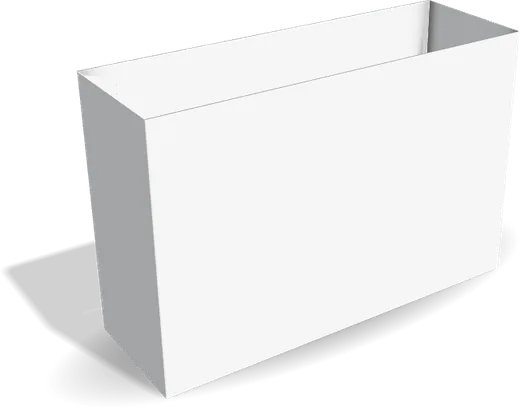
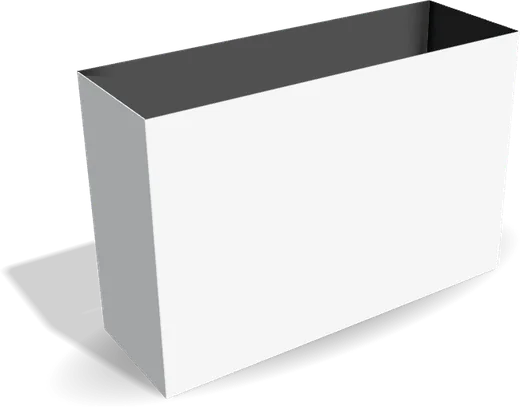
Print board cut edges and shade closed cartons inside
On a dark design the lid's cut edges, the ends of each fold and the glue
seam showed the unprinted white board under the studio's bluish light,
and read as gaps along every edge and at the corners. Cut edges of
printed (non-corrugated) board now carry the print that runs up to them;
corrugated board keeps its flutes. The inside of a closed carton is
shaded, so the small slots where folds meet at a corner show as shadow
rather than a bright white spot.

Claude-Session: https://claude.ai/code/session_01AosEoHGp9fRkJBNR4UPrD4

Changed region(s): [[0.1538, 0.0, 1.0, 0.2948]]

diff --git a/src/components/studio/carton-surfaces.ts b/src/components/studio/carton-surfaces.ts
@@ -1,4 +1,5 @@
-import { faceNormal, quadFromCorners, type Mesh } from '@/lib/packaging/template-mesh';
+import { printedEdge } from '@/lib/packaging/fold-sheet';
+import { CORRUGATED_THICKNESS, faceNormal, quadFromCorners, type Mesh } from '@/lib/packaging/template-mesh';
 
 // How each face meets its neighbours, worked out from the template meshes so
 // every template gets soft inside corners, rounded folds and cut board edges
@@ -104,6 +105,33 @@ function closestNeighbour(quad: Quad, a: Vec3, b: Vec3, quads: (Quad | null)[], 
   return best;
 }
 
+/**
+ * Printed board shows its print right up to a cut, so a cut edge carries the
+ * colour of the print along it (the same texture coordinates straight
+ * through the board) and reads as part of the box rather than a gap.
+ */
+function printEdge(strip: Mesh, face: Mesh, edge: number) {
+  const panel = face.panel ?? face.sourcePanel;
+  if (!panel || !face.useTexture || face.vertices.length !== QUAD_FLOATS) return;
+  // Texture coordinates of the face's corners a, b, c, d.
+  const uv = [0, 1, 2, 5].map(index => [face.vertices[index * 8 + 6], face.vertices[index * 8 + 7]]);
+  const outer = uv[edge], next = uv[(edge + 1) % 4];
+  // The strip's corners are outer, next, inner next, inner: a b c | a c d.
+  [outer, next, next, outer, next, outer].forEach(([u, v], index) => {
+    strip.vertices[index * 8 + 6] = u;
+    strip.vertices[index * 8 + 7] = v;
+  });
+  const size = face.uvSize ?? quadSize(face);
+  printedEdge(strip, panel, size);
+  strip.faceAspect = face.faceAspect ?? size[0] / size[1];
+  if (face.fallbackPanel) { strip.fallbackPanel = face.fallbackPanel; strip.fallbackUv = face.fallbackUv; }
+}
+
+function quadSize(mesh: Mesh): [number, number] {
+  const v = mesh.vertices;
+  return [Math.max(Math.hypot(v[8] - v[0], v[9] - v[1], v[10] - v[2]), 1e-3), Math.max(Math.hypot(v[40] - v[0], v[41] - v[1], v[42] - v[2]), 1e-3)];
+}
+
 type Board = { id: string; outside: Quad; inside: Quad; inner: Vec3[] };
 
 /** Marks a quad edge that continues into a bent crease. */
@@ -196,6 +224,7 @@ export function solidify(meshes: Mesh[], thickness: number): Mesh[] {
       if (allFaces.some(face => face !== board.outside && liesOn(middle, face, thickness * 0.6))) return;
       const mesh = quadFromCorners(strip, board.outside.mesh.color.map(value => value * 0.86) as [number, number, number]);
       mesh.doubleSided = true;
+      if (thickness < CORRUGATED_THICKNESS) printEdge(mesh, board.outside.mesh, edge);
       edges.push(mesh);
     });
   }

diff --git a/src/components/studio/carton-renderer.ts b/src/components/studio/carton-renderer.ts
@@ -34,7 +34,7 @@ import {
 } from 'three';
 import { RoomEnvironment } from 'three/examples/jsm/environments/RoomEnvironment.js';
 import type { ArtworkByPanel } from '@/lib/packaging/artwork';
-import type { Mesh } from '@/lib/packaging/template-mesh';
+import { CORRUGATED_THICKNESS, type Mesh } from '@/lib/packaging/template-mesh';
 import { requireTemplateRuntime } from '@/lib/packaging/template-runtime';
 import {
   artworkUrlSignature,
@@ -200,8 +200,12 @@ export function createCartonRenderer(canvas: HTMLCanvasElement) {
     // millimetre so the soft highlight is visible at normal zoom.
     const roundRadius = Math.max(thickness * 1.5, 0.9);
     // Corrugated board (about 1 mm and up) shows its flutes on cut edges.
-    const flutePitch = thickness >= 1 ? thickness * 2.15 : 0;
+    const flutePitch = thickness >= CORRUGATED_THICKNESS ? thickness * 2.15 : 0;
     const finish = FINISHES[scene.material] ?? DEFAULT_FINISH;
+    // Little light reaches the inside of a closed carton, so what shows of it
+    // through the small slots where folds meet at a corner stays dark.
+    const shut = scene.formation >= 100 ? 1 - Math.min(1, scene.opening / 15) : 0;
+    const insideShade = 1 - 0.7 * shut;
     meshes.forEach((mesh, index) => {
       let object = objects[index];
       if (!object) {
@@ -224,7 +228,8 @@ export function createCartonRenderer(canvas: HTMLCanvasElement) {
       const material = object.material;
       const uniforms = material.userData.uniforms as CartonUniforms;
       applyFinish(material, surface === 'outside' ? finish : surface === 'inside' ? INSIDE_FINISH : EDGE_FINISH, uniforms, scene.material === 'Kraft' && surface !== 'outside' ? FINISHES.Kraft : null);
-      material.color.setRGB(mesh.color[0], mesh.color[1], mesh.color[2], SRGBColorSpace);
+      const shade = surface === 'inside' ? insideShade : 1;
+      material.color.setRGB(mesh.color[0] * shade, mesh.color[1] * shade, mesh.color[2] * shade, SRGBColorSpace);
       material.side = mesh.doubleSided ? DoubleSide : FrontSide;
       // Inside faces and board edges meet the printed faces along a shared
       // line; nudging them back in depth keeps that line from flickering.

diff --git a/src/lib/packaging/fold-sheet.ts b/src/lib/packaging/fold-sheet.ts
@@ -1,4 +1,4 @@
-import { faceNormal, type Mesh } from './template-mesh';
+import { CORRUGATED_THICKNESS, faceNormal, type Mesh } from './template-mesh';
 
 // Folds a flat dieline into 3D the way scored card behaves: every panel is a
 // rigid piece of board, and every crease is a short strip of the same sheet
@@ -267,9 +267,14 @@ function bendMeshes(args: {
     for (const w of [from, to]) {
       const strip = [place(pointAt(s0, w, 0)), place(pointAt(s1, w, 0)), place(pointAt(s1, w, t)), place(pointAt(s0, w, t))];
       const edgeNormal = faceNormal(strip);
-      const edge = smoothQuad(strip, [edgeNormal, edgeNormal, edgeNormal, edgeNormal], [[0, 0], [1, 0], [1, 1], [0, 1]],
+      // Printed board shows its print right up to the cut, so the end of a
+      // fold reads as part of the box, not as a hole; corrugated shows flutes.
+      const printed = t < CORRUGATED_THICKNESS;
+      const uvs = printed ? [dieline(s0, w), dieline(s1, w), dieline(s1, w), dieline(s0, w)] : [[0, 0], [1, 0], [1, 1], [0, 1]];
+      const edge = smoothQuad(strip, [edgeNormal, edgeNormal, edgeNormal, edgeNormal], uvs,
         input.color.map(value => value * 0.86) as Vec3, null, false);
       edge.doubleSided = true;
+      if (printed) printedEdge(edge, owner.name, ownerSize);
       meshes.push(edge);
     }
   }
@@ -289,6 +294,14 @@ function bendMeshes(args: {
     meshes.push(smoothQuad(inner.map(placeChild), [back, back, back, back], [uvs[3], uvs[2], uvs[1], uvs[0]].map(insideUv), input.interiorColor, `Interior ${parent.name}`, true, size));
   }
   return meshes;
+}
+
+/** A cut board edge that shows `panel`'s print through its own texture coordinates. */
+export function printedEdge(mesh: Mesh, panel: string, uvSize: [number, number]) {
+  mesh.useTexture = true;
+  mesh.sourcePanel = panel;
+  mesh.uvSize = uvSize;
+  mesh.faceAspect = uvSize[0] / uvSize[1];
 }
 
 function smoothQuad(corners: Vec3[], normals: Vec3[], uvs: number[][], color: Vec3, panel: string | null, inside: boolean, uvSize?: [number, number]): Mesh {

diff --git a/src/lib/packaging/template-mesh.ts b/src/lib/packaging/template-mesh.ts
@@ -32,6 +32,12 @@ export type Mesh = {
   uvSize?: [number, number];
 };
 
+/**
+ * Board this thick (mm) or more is corrugated: its cut edges show the flutes.
+ * Thinner board's cut edges carry the print that runs up to them.
+ */
+export const CORRUGATED_THICKNESS = 1;
+
 export type TemplateMeshInput = {
   dimensions: CartonDimensions;
   opening: number;
